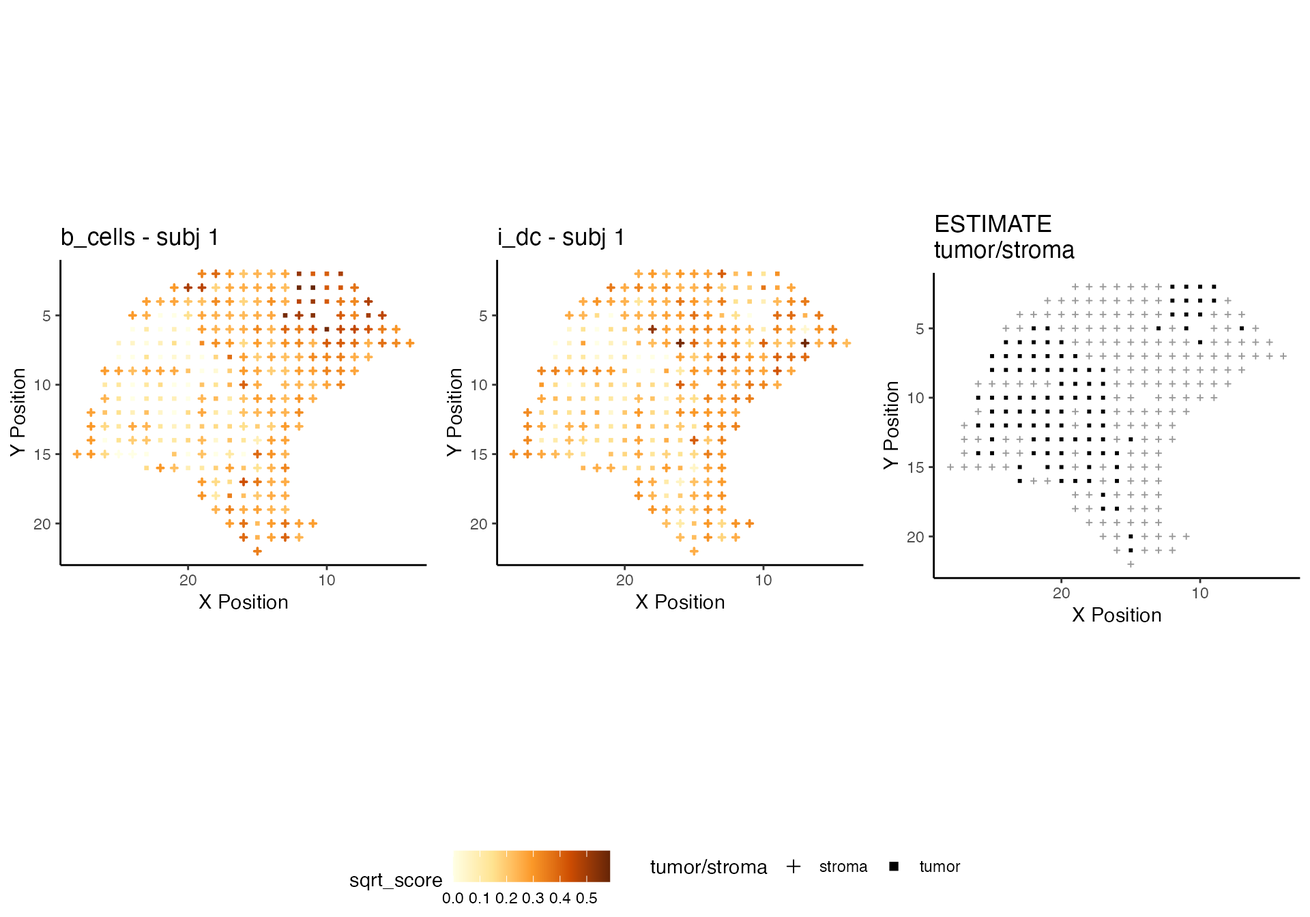
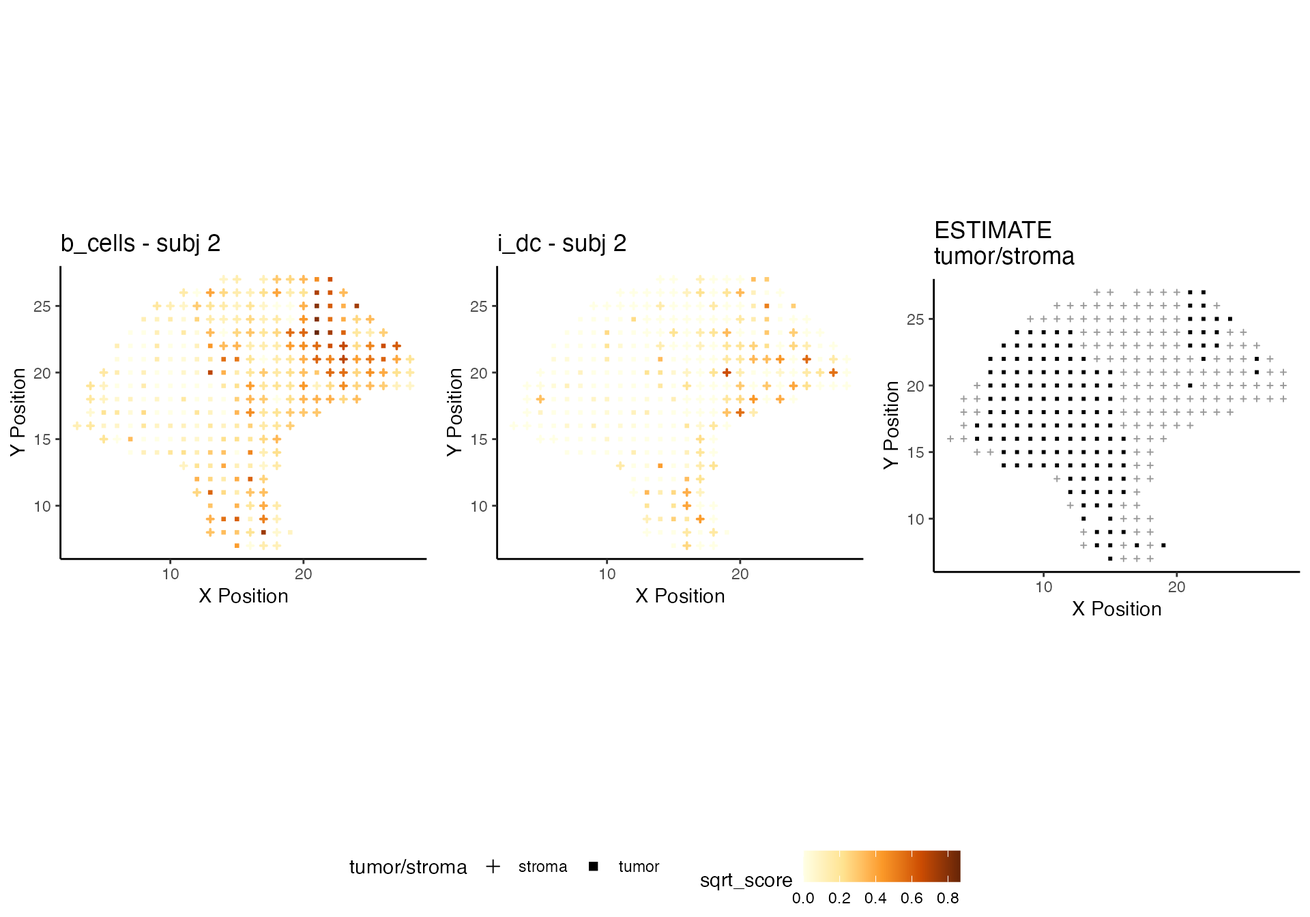
updated vignette

diff --git a/articles/melanoma_ST_vignette.html b/articles/melanoma_ST_vignette.html
@@ -112,7 +112,7 @@
 <p>Optionally, the user can provide a table with clinical/phenotype data associated with each spatial array. This table is a comma-separated file with sample ID in the first column, and relevant variables in subsequent columns. The order of the rows in the clinical file must match that of the file paths.</p>
 <p>The example files in this tutorial can be downloaded from the GitHub repository (<a href="https://github.com/FridleyLab/spatialGEdev/tree/main/inst/extdata" class="uri">https://github.com/FridleyLab/spatialGEdev/tree/main/inst/extdata</a>). They are also stored in your local <code>spatialGE</code> installation:</p>
 <div class="sourceCode" id="cb4"><pre class="downlit sourceCode r">
-<code class="sourceCode R"><span class="va">data_files</span> <span class="op">&lt;-</span> <span class="fu"><a href="https://rdrr.io/r/base/system.file.html">system.file</a></span><span class="op">(</span><span class="st">"extdata"</span>, package <span class="op">=</span> <span class="st">"spatialGEdev"</span><span class="op">)</span></code></pre></div>
+<code class="sourceCode R"><span class="va">data_files</span> <span class="op">&lt;-</span> <span class="fu"><a href="https://rdrr.io/r/base/system.file.html">system.file</a></span><span class="op">(</span><span class="st">"extdata"</span>, package<span class="op">=</span><span class="st">"spatialGEdev"</span><span class="op">)</span></code></pre></div>
 <p>We then create two files (<code>fpaths_count_files.txt</code> and <code>fpaths_mapping_files.txt</code>), containing the file paths where the count and coordinate files are stored. Those two files will be the input to later create the Spatial Transcriptomics List (STList).</p>
 <div class="sourceCode" id="cb5"><pre class="downlit sourceCode r">
 <code class="sourceCode R"><span class="va">count_files</span> <span class="op">&lt;-</span> <span class="fu"><a href="https://rdrr.io/r/base/grep.html">grep</a></span><span class="op">(</span><span class="st">"genes"</span>, <span class="fu"><a href="https://rdrr.io/r/base/list.files.html">list.files</a></span><span class="op">(</span><span class="va">data_files</span>, full.names<span class="op">=</span><span class="cn">T</span><span class="op">)</span>, value<span class="op">=</span><span class="cn">T</span><span class="op">)</span>
@@ -162,30 +162,31 @@
 <h2 class="hasAnchor">
 <a href="#visualization-of-gene-expression-from-spatially-resolved-transcriptomics-data" class="anchor"></a>Visualization of gene expression from spatially-resolved transcriptomics data</h2>
 <p>After normalization, expression of specific genes can be visualized using ‘quilt’ plots. The function <code><a href="../reference/plot_gene_quilt.html">plot_gene_quilt()</a></code> re-creates the shape of the spatial array and shows the scaled normalized expression of a gene. We have adopted the color palettes from the package <code>khroma</code>. The color palette can be passed using the argument <code>color_pal</code>. The default behavior of the function produces plots for all spatial arrays in the STList, but we can define who should be plotted using the argument <code>plot_who</code>.</p>
-<p>Let’s produce a quilt plot for the gene CAPG and SOX10, two genes known to be expressed in melanoma.</p>
+<p>Let’s produce a quilt plot for the genes IGLL5 and SOX10, an immunoglobulin gene and a melanoma marker.</p>
 <div class="sourceCode" id="cb11"><pre class="downlit sourceCode r">
-<code class="sourceCode R"><span class="va">quilts1</span> <span class="op">&lt;-</span> <span class="fu"><a href="../reference/plot_gene_quilt.html">plot_gene_quilt</a></span><span class="op">(</span><span class="va">melanoma</span>, genes<span class="op">=</span><span class="fu"><a href="https://rdrr.io/r/base/c.html">c</a></span><span class="op">(</span><span class="st">'CAPG'</span>, <span class="st">'SOX10'</span><span class="op">)</span>, color_pal<span class="op">=</span><span class="st">"YlOrBr"</span>, plot_who<span class="op">=</span><span class="fl">1</span><span class="op">)</span>
+<code class="sourceCode R"><span class="va">quilts1</span> <span class="op">&lt;-</span> <span class="fu"><a href="../reference/plot_gene_quilt.html">plot_gene_quilt</a></span><span class="op">(</span><span class="va">melanoma</span>, genes<span class="op">=</span><span class="fu"><a href="https://rdrr.io/r/base/c.html">c</a></span><span class="op">(</span><span class="st">'IGLL5'</span>, <span class="st">'SOX10'</span><span class="op">)</span>, color_pal<span class="op">=</span><span class="st">"YlOrBr"</span>, 
+                           plot_who<span class="op">=</span><span class="fl">2</span><span class="op">)</span>
 <span class="fu">ggpubr</span><span class="fu">::</span><span class="fu"><a href="https://rpkgs.datanovia.com/ggpubr/reference/ggarrange.html">ggarrange</a></span><span class="op">(</span>plotlist<span class="op">=</span><span class="va">quilts1</span>, nrow<span class="op">=</span><span class="fl">1</span>, ncol<span class="op">=</span><span class="fl">2</span>, common.legend<span class="op">=</span><span class="cn">T</span>, legend<span class="op">=</span><span class="st">'bottom'</span><span class="op">)</span></code></pre></div>
 <p><img src="melanoma_ST_vignette_files/figure-html/genequilt_chunk-1.png" width="960"></p>
-<p>We can see that gene expression patterns of both genes are different, with a more dispersed pattern in CAPG, compared to SOX10. The large area of lower CAPG expression corresponds to the melanoma pocket detected by Thrane et al. (see Figure 3 of their study).</p>
+<p>We can see that gene expression patterns of both genes are different, with a more dispersed pattern in SOX10, compared to IGLL5 The large area of lower IGLL5 expression corresponds to the melanoma pocket detected by Thrane et al. (see Figure 3 of their study).</p>
 <div id="spatial-interpolation-kriging-of-gene-expression" class="section level3">
 <h3 class="hasAnchor">
 <a href="#spatial-interpolation-kriging-of-gene-expression" class="anchor"></a>Spatial interpolation (‘kriging’) of gene expression</h3>
 <p>We can predict a smooth surface of the gene expression in a spatial array. In <code>spatialGE</code>, this prediction is achieved by a type of spatial interpolation widely used on geographic data. The method named ‘kriging’ allows for the estimation of the normalized gene expression value of the unsampled areas between spots, or spots for which a RNA-Seq library failed to provide data. Estimating a transcriptomic surface via kriging assumes that gene expression of two given points is correlated with the physical distance between them.</p>
 <p>The function <code><a href="../reference/gene_krige.html">gene_krige()</a></code> performs kriging of gene expression via the <code>geoR</code> package:</p>
 <div class="sourceCode" id="cb12"><pre class="downlit sourceCode r">
-<code class="sourceCode R"><span class="va">melanoma</span> <span class="op">&lt;-</span> <span class="fu"><a href="../reference/gene_krige.html">gene_krige</a></span><span class="op">(</span><span class="va">melanoma</span>, genes<span class="op">=</span><span class="fu"><a href="https://rdrr.io/r/base/c.html">c</a></span><span class="op">(</span><span class="st">'CAPG'</span>, <span class="st">'SOX10'</span><span class="op">)</span>, who<span class="op">=</span><span class="fu"><a href="https://rdrr.io/r/base/c.html">c</a></span><span class="op">(</span><span class="fl">1</span>, <span class="fl">3</span><span class="op">)</span><span class="op">)</span>
-<span class="co">#&gt; Performing spatial interpolation ('kriging') of gene CAPG for subject 1...</span>
-<span class="co">#&gt; Performing spatial interpolation ('kriging') of gene SOX10 for subject 1...</span>
-<span class="co">#&gt; Performing spatial interpolation ('kriging') of gene CAPG for subject 3...</span>
+<code class="sourceCode R"><span class="va">melanoma</span> <span class="op">&lt;-</span> <span class="fu"><a href="../reference/gene_krige.html">gene_krige</a></span><span class="op">(</span><span class="va">melanoma</span>, genes<span class="op">=</span><span class="fu"><a href="https://rdrr.io/r/base/c.html">c</a></span><span class="op">(</span><span class="st">'IGLL5'</span>, <span class="st">'SOX10'</span><span class="op">)</span>, who<span class="op">=</span><span class="fu"><a href="https://rdrr.io/r/base/c.html">c</a></span><span class="op">(</span><span class="fl">2</span>, <span class="fl">3</span><span class="op">)</span><span class="op">)</span>
+<span class="co">#&gt; Performing spatial interpolation ('kriging') of gene IGLL5 for subject 2...</span>
+<span class="co">#&gt; Performing spatial interpolation ('kriging') of gene SOX10 for subject 2...</span>
+<span class="co">#&gt; Performing spatial interpolation ('kriging') of gene IGLL5 for subject 3...</span>
 <span class="co">#&gt; Performing spatial interpolation ('kriging') of gene SOX10 for subject 3...</span></code></pre></div>
 <p>The surface can be visualized using the <code><a href="../reference/plot_gene_krige.html">plot_gene_krige()</a></code> function:</p>
 <div class="sourceCode" id="cb13"><pre class="downlit sourceCode r">
-<code class="sourceCode R"><span class="va">kriges1</span> <span class="op">&lt;-</span> <span class="fu"><a href="../reference/plot_gene_krige.html">plot_gene_krige</a></span><span class="op">(</span><span class="va">melanoma</span>, genes<span class="op">=</span><span class="fu"><a href="https://rdrr.io/r/base/c.html">c</a></span><span class="op">(</span><span class="st">'CAPG'</span>, <span class="st">'SOX10'</span><span class="op">)</span>, plot_who<span class="op">=</span><span class="fl">1</span><span class="op">)</span>
+<code class="sourceCode R"><span class="va">kriges1</span> <span class="op">&lt;-</span> <span class="fu"><a href="../reference/plot_gene_krige.html">plot_gene_krige</a></span><span class="op">(</span><span class="va">melanoma</span>, genes<span class="op">=</span><span class="fu"><a href="https://rdrr.io/r/base/c.html">c</a></span><span class="op">(</span><span class="st">'IGLL5'</span>, <span class="st">'SOX10'</span><span class="op">)</span>, plot_who<span class="op">=</span><span class="fl">2</span><span class="op">)</span>
 <span class="co">#&gt; Loading required namespace: rgeos</span>
 <span class="fu">ggpubr</span><span class="fu">::</span><span class="fu"><a href="https://rpkgs.datanovia.com/ggpubr/reference/ggarrange.html">ggarrange</a></span><span class="op">(</span>plotlist<span class="op">=</span><span class="va">kriges1</span>, nrow<span class="op">=</span><span class="fl">1</span>, ncol<span class="op">=</span><span class="fl">2</span>, common.legend<span class="op">=</span><span class="cn">T</span>, legend<span class="op">=</span><span class="st">'bottom'</span><span class="op">)</span></code></pre></div>
 <p><img src="melanoma_ST_vignette_files/figure-html/plotgenekrige_chunk1-1.png" width="960"></p>
-<p>By looking at the transcriptomic surfaces of the tho genes, it is easier to detect pockets of higher (or lower) expression within the tissue. It is now more evident that expression of CAPG is lower on the left (melanoma) portion of the tumor slice, compared to the rest of the slice.</p>
+<p>By looking at the transcriptomic surfaces of the tho genes, it is easier to detect pockets of higher (or lower) expression within the tissue. It is now more evident that expression of IGLL5 is lower on the left (melanoma) portion of the tumor slice, compared to the rest of the slice.</p>
 <p>In the transcriptomic surface plots, <code>spatialGE</code> outputs three spatial heterogeneity statistics: Moran’s I, Geary’s C, and Getis-Ord Gi.</p>
 <table class="table">
 <caption>Heterogeneity statitstics in <code>spatialGE</code>
@@ -213,10 +214,10 @@
 </tr>
 </tbody>
 </table>
-<p>In this case, the two genes showed almost the same values for all three statistics. A slightly lower Moran’s I for CAPG is a result of higher dispersion of spots with high expression values through the slice surface. Both Moran’s I and Geary’s C showed statistical significance (<em>p</em>&lt;0.05) after a permutation test (performed with <code>spdep</code>).</p>
-<p>A higher difference in Moran’s I can be seen for one of the tissue slices of patient 2. With a higher Moran’s I, CAPG shows expression concentrated in the center right and lower left of the tissue. For SOX10, expression is almost uniform for the lower half of the tissue slice.</p>
+<p>A higher Moran’s I for IGLL5 indicates that there are clusters of high expression. In other words, gene expression of IGLL5 is not uniform across the tissue. Geary’s C was significantly different than zero in IGLL5, but not SOX10 (indicated by asterisk), further validating the higher gene expression clustering in IGLL5. Statistical significance (<em>p</em>&lt;0.05) in <code>spatialGE</code> is obtained via permutation (performed with <code>spdep</code>).</p>
+<p>We can control which tissue slice to plot with the <code>plot_who</code> argument. This argument is also included in the quilt plot functions.</p>
 <div class="sourceCode" id="cb14"><pre class="downlit sourceCode r">
-<code class="sourceCode R"><span class="va">kriges2</span> <span class="op">&lt;-</span> <span class="fu"><a href="../reference/plot_gene_krige.html">plot_gene_krige</a></span><span class="op">(</span><span class="va">melanoma</span>, genes<span class="op">=</span><span class="fu"><a href="https://rdrr.io/r/base/c.html">c</a></span><span class="op">(</span><span class="st">'CAPG'</span>, <span class="st">'SOX10'</span><span class="op">)</span>, plot_who<span class="op">=</span><span class="fl">3</span><span class="op">)</span>
+<code class="sourceCode R"><span class="va">kriges2</span> <span class="op">&lt;-</span> <span class="fu"><a href="../reference/plot_gene_krige.html">plot_gene_krige</a></span><span class="op">(</span><span class="va">melanoma</span>, genes<span class="op">=</span><span class="fu"><a href="https://rdrr.io/r/base/c.html">c</a></span><span class="op">(</span><span class="st">'IGLL5'</span>, <span class="st">'SOX10'</span><span class="op">)</span>, plot_who<span class="op">=</span><span class="fl">3</span><span class="op">)</span>
 <span class="fu">ggpubr</span><span class="fu">::</span><span class="fu"><a href="https://rpkgs.datanovia.com/ggpubr/reference/ggarrange.html">ggarrange</a></span><span class="op">(</span>plotlist<span class="op">=</span><span class="va">kriges2</span>, nrow<span class="op">=</span><span class="fl">1</span>, ncol<span class="op">=</span><span class="fl">2</span>, common.legend<span class="op">=</span><span class="cn">T</span>, legend<span class="op">=</span><span class="st">'bottom'</span><span class="op">)</span></code></pre></div>
 <p><img src="melanoma_ST_vignette_files/figure-html/plotgenekrige_chunk2-1.png" width="960"></p>
 </div>
@@ -270,42 +271,39 @@
 <p>With the function <code><a href="../reference/plot_deconv_quilt.html">plot_deconv_quilt()</a></code>, we can visualize the cell type scores inferred by xCell. For example, B cells and dendritic cells.</p>
 <div class="sourceCode" id="cb16"><pre class="downlit sourceCode r">
 <code class="sourceCode R"><span class="va">quilts2</span> <span class="op">&lt;-</span> <span class="fu"><a href="../reference/plot_deconv_quilt.html">plot_deconv_quilt</a></span><span class="op">(</span><span class="va">melanoma</span>, cells<span class="op">=</span><span class="fu"><a href="https://rdrr.io/r/base/c.html">c</a></span><span class="op">(</span><span class="st">'b_cells'</span>, <span class="st">'i_dc'</span><span class="op">)</span>, 
-                           color_pal<span class="op">=</span><span class="st">"YlOrBr"</span>, plot_who<span class="op">=</span><span class="fl">1</span>, purity<span class="op">=</span><span class="cn">T</span><span class="op">)</span>
+                           color_pal<span class="op">=</span><span class="st">"YlOrBr"</span>, plot_who<span class="op">=</span><span class="fl">2</span>, purity<span class="op">=</span><span class="cn">T</span><span class="op">)</span>
 <span class="fu">ggpubr</span><span class="fu">::</span><span class="fu"><a href="https://rpkgs.datanovia.com/ggpubr/reference/ggarrange.html">ggarrange</a></span><span class="op">(</span>plotlist<span class="op">=</span><span class="va">quilts2</span>, nrow<span class="op">=</span><span class="fl">1</span>, ncol<span class="op">=</span><span class="fl">3</span>, common.legend<span class="op">=</span><span class="cn">T</span>, legend<span class="op">=</span><span class="st">'bottom'</span><span class="op">)</span></code></pre></div>
 <p><img src="melanoma_ST_vignette_files/figure-html/deconvquilts_chunk-1.png" width="960"></p>
 <p>By plotting the tumor/stroma classification of the spots, the differences in cell scores can quiclky be detected. Melanoma areas (squares) show lower B cell and dendritic cell scores, as expected. Nonetheless, B cells were abundant in the lymphoid pocket (upper right part of the tissue).</p>
 <p>Similar plots can be generated for gene expression, as opposed to deconvolution scores, with the <code><a href="../reference/plot_gene_quilt.html">plot_gene_quilt()</a></code> function:</p>
 <div class="sourceCode" id="cb17"><pre class="downlit sourceCode r">
-<code class="sourceCode R"><span class="va">quilts3</span> <span class="op">&lt;-</span> <span class="fu"><a href="../reference/plot_gene_quilt.html">plot_gene_quilt</a></span><span class="op">(</span><span class="va">melanoma</span>, genes<span class="op">=</span><span class="fu"><a href="https://rdrr.io/r/base/c.html">c</a></span><span class="op">(</span><span class="st">'CAPG'</span>, <span class="st">'SOX10'</span><span class="op">)</span>, color_pal<span class="op">=</span><span class="st">"YlOrBr"</span>, 
-                           plot_who<span class="op">=</span><span class="fl">1</span>, purity<span class="op">=</span><span class="cn">T</span><span class="op">)</span>
+<code class="sourceCode R"><span class="va">quilts3</span> <span class="op">&lt;-</span> <span class="fu"><a href="../reference/plot_gene_quilt.html">plot_gene_quilt</a></span><span class="op">(</span><span class="va">melanoma</span>, genes<span class="op">=</span><span class="fu"><a href="https://rdrr.io/r/base/c.html">c</a></span><span class="op">(</span><span class="st">'IGLL5'</span>, <span class="st">'SOX10'</span><span class="op">)</span>, color_pal<span class="op">=</span><span class="st">"YlOrBr"</span>, 
+                           plot_who<span class="op">=</span><span class="fl">2</span>, purity<span class="op">=</span><span class="cn">T</span><span class="op">)</span>
 
 <span class="fu">ggpubr</span><span class="fu">::</span><span class="fu"><a href="https://rpkgs.datanovia.com/ggpubr/reference/ggarrange.html">ggarrange</a></span><span class="op">(</span>plotlist<span class="op">=</span><span class="va">quilts3</span>, nrow<span class="op">=</span><span class="fl">1</span>, ncol<span class="op">=</span><span class="fl">3</span>, common.legend<span class="op">=</span><span class="cn">T</span>, legend<span class="op">=</span><span class="st">'bottom'</span><span class="op">)</span></code></pre></div>
 <p><img src="melanoma_ST_vignette_files/figure-html/genepurity_chunk-1.png" width="960"></p>
 <p>Spatial interpolation of cell scores is also possible with the <code><a href="../reference/deconv_krige.html">deconv_krige()</a></code> function:</p>
 <div class="sourceCode" id="cb18"><pre class="downlit sourceCode r">
-<code class="sourceCode R"><span class="va">melanoma</span> <span class="op">&lt;-</span> <span class="fu"><a href="../reference/deconv_krige.html">deconv_krige</a></span><span class="op">(</span><span class="va">melanoma</span>, cells<span class="op">=</span><span class="fu"><a href="https://rdrr.io/r/base/c.html">c</a></span><span class="op">(</span><span class="st">'b_cells'</span>, <span class="st">'i_dc'</span><span class="op">)</span>, 
-                         who<span class="op">=</span><span class="fu"><a href="https://rdrr.io/r/base/c.html">c</a></span><span class="op">(</span><span class="fl">1</span>, <span class="fl">3</span><span class="op">)</span><span class="op">)</span>
-<span class="co">#&gt; Performing spatial interpolation ('kriging') of b_cells for subject 1...</span>
-<span class="co">#&gt; Performing spatial interpolation ('kriging') of i_dc for subject 1...</span>
-<span class="co">#&gt; Performing spatial interpolation ('kriging') of b_cells for subject 3...</span>
-<span class="co">#&gt; Performing spatial interpolation ('kriging') of i_dc for subject 3...</span></code></pre></div>
+<code class="sourceCode R"><span class="va">melanoma</span> <span class="op">&lt;-</span> <span class="fu"><a href="../reference/deconv_krige.html">deconv_krige</a></span><span class="op">(</span><span class="va">melanoma</span>, cells<span class="op">=</span><span class="fu"><a href="https://rdrr.io/r/base/c.html">c</a></span><span class="op">(</span><span class="st">'b_cells'</span>, <span class="st">'i_dc'</span><span class="op">)</span>, who<span class="op">=</span><span class="fl">2</span><span class="op">)</span>
+<span class="co">#&gt; Performing spatial interpolation ('kriging') of b_cells for subject 2...</span>
+<span class="co">#&gt; Performing spatial interpolation ('kriging') of i_dc for subject 2...</span></code></pre></div>
 <p>We plot the surfaces using the <code><a href="../reference/plot_deconv_krige.html">plot_deconv_krige()</a></code> function.</p>
 <div class="sourceCode" id="cb19"><pre class="downlit sourceCode r">
 <code class="sourceCode R"><span class="va">kriges3</span> <span class="op">&lt;-</span> <span class="fu"><a href="../reference/plot_deconv_krige.html">plot_deconv_krige</a></span><span class="op">(</span><span class="va">melanoma</span>,  cells<span class="op">=</span><span class="fu"><a href="https://rdrr.io/r/base/c.html">c</a></span><span class="op">(</span><span class="st">'b_cells'</span>, <span class="st">'i_dc'</span><span class="op">)</span>,
-                           color_pal<span class="op">=</span><span class="st">"YlOrBr"</span>, plot_who<span class="op">=</span><span class="fl">1</span><span class="op">)</span>
+                           color_pal<span class="op">=</span><span class="st">"YlOrBr"</span>, plot_who<span class="op">=</span><span class="fl">2</span><span class="op">)</span>
 <span class="fu">ggpubr</span><span class="fu">::</span><span class="fu"><a href="https://rpkgs.datanovia.com/ggpubr/reference/ggarrange.html">ggarrange</a></span><span class="op">(</span>plotlist<span class="op">=</span><span class="va">kriges3</span>, nrow<span class="op">=</span><span class="fl">1</span>, ncol<span class="op">=</span><span class="fl">2</span>, common.legend<span class="op">=</span><span class="cn">T</span>, legend<span class="op">=</span><span class="st">'bottom'</span><span class="op">)</span></code></pre></div>
 <p><img src="melanoma_ST_vignette_files/figure-html/plotdeconvkrige_chunk-1.png" width="960"></p>
 <p>Cell scores in xCell are accompanied by p-values to support the significance of the scores. The p-values are calculated automatically during deconvolution in <code>spatialGE</code>, and we can plot them using the <code>pvalue</code> option:</p>
 <div class="sourceCode" id="cb20"><pre class="downlit sourceCode r">
 <code class="sourceCode R"><span class="va">kriges4</span> <span class="op">&lt;-</span> <span class="fu"><a href="../reference/plot_deconv_krige.html">plot_deconv_krige</a></span><span class="op">(</span><span class="va">melanoma</span>,  cells<span class="op">=</span><span class="fu"><a href="https://rdrr.io/r/base/c.html">c</a></span><span class="op">(</span><span class="st">'b_cells'</span>, <span class="st">'i_dc'</span><span class="op">)</span>,
-                           color_pal<span class="op">=</span><span class="st">"YlOrBr"</span>, plot_who<span class="op">=</span><span class="fl">1</span>, pvalues<span class="op">=</span><span class="cn">T</span><span class="op">)</span>
+                           color_pal<span class="op">=</span><span class="st">"YlOrBr"</span>, plot_who<span class="op">=</span><span class="fl">2</span>, pvalues<span class="op">=</span><span class="cn">T</span><span class="op">)</span>
 <span class="fu">ggpubr</span><span class="fu">::</span><span class="fu"><a href="https://rpkgs.datanovia.com/ggpubr/reference/ggarrange.html">ggarrange</a></span><span class="op">(</span>plotlist<span class="op">=</span><span class="va">kriges4</span>, nrow<span class="op">=</span><span class="fl">1</span>, ncol<span class="op">=</span><span class="fl">2</span>, common.legend<span class="op">=</span><span class="cn">T</span>, legend<span class="op">=</span><span class="st">'bottom'</span><span class="op">)</span></code></pre></div>
 <p><img src="melanoma_ST_vignette_files/figure-html/plotkrigepvals_chunk-1.png" width="960"></p>
-<p>B cells are present throughout the tissue, but less abundant in the melanoma pocket. The estimates were significantly different from zero as sugggested by xCell’s permutation method. The xCell scores for the dendritic cells were only significantly different from zero only on three spots (gray hollow circles).</p>
+<p>B cells are present throughout the tissue, but less abundant in the melanoma pocket. The estimates were significantly different from zero as sugggested by xCell’s permutation method. The xCell scores for the dendritic cells were only significantly different from zero only for a few spots (gray hollow circles).</p>
 <p>The <code><a href="../reference/plot_deconv_krige.html">plot_deconv_krige()</a></code> also allows annotation of tumor spots:</p>
 <div class="sourceCode" id="cb21"><pre class="downlit sourceCode r">
 <code class="sourceCode R"><span class="va">kriges5</span> <span class="op">&lt;-</span> <span class="fu"><a href="../reference/plot_deconv_krige.html">plot_deconv_krige</a></span><span class="op">(</span><span class="va">melanoma</span>,  cells<span class="op">=</span><span class="fu"><a href="https://rdrr.io/r/base/c.html">c</a></span><span class="op">(</span><span class="st">'b_cells'</span>, <span class="st">'i_dc'</span><span class="op">)</span>,
-                           color_pal<span class="op">=</span><span class="st">"YlOrBr"</span>, plot_who<span class="op">=</span><span class="fl">1</span>, purity<span class="op">=</span><span class="cn">T</span><span class="op">)</span>
+                           color_pal<span class="op">=</span><span class="st">"YlOrBr"</span>, plot_who<span class="op">=</span><span class="fl">2</span>, purity<span class="op">=</span><span class="cn">T</span><span class="op">)</span>
 <span class="fu">ggpubr</span><span class="fu">::</span><span class="fu"><a href="https://rpkgs.datanovia.com/ggpubr/reference/ggarrange.html">ggarrange</a></span><span class="op">(</span>plotlist<span class="op">=</span><span class="va">kriges5</span>, nrow<span class="op">=</span><span class="fl">1</span>, ncol<span class="op">=</span><span class="fl">2</span>, common.legend<span class="op">=</span><span class="cn">T</span>, legend<span class="op">=</span><span class="st">'bottom'</span><span class="op">)</span></code></pre></div>
 <p><img src="melanoma_ST_vignette_files/figure-html/plotkrigepurity_chunk-1.png" width="960"></p>
 </div>
@@ -317,7 +315,7 @@
 <code class="sourceCode R"><span class="va">melanoma</span> <span class="op">&lt;-</span> <span class="fu"><a href="../reference/cluster_STspot.html">cluster_STspot</a></span><span class="op">(</span><span class="va">melanoma</span>, ks<span class="op">=</span><span class="st">'dtc'</span>, weights<span class="op">=</span><span class="fl">0.1</span><span class="op">)</span></code></pre></div>
 <p>Results of clustering can be plotted via the <code><a href="../reference/plot_STclusters.html">plot_STclusters()</a></code> function:</p>
 <div class="sourceCode" id="cb23"><pre class="downlit sourceCode r">
-<code class="sourceCode R"><span class="va">cluster_p</span> <span class="op">&lt;-</span> <span class="fu"><a href="../reference/plot_STclusters.html">plot_STclusters</a></span><span class="op">(</span><span class="va">melanoma</span>, purity<span class="op">=</span><span class="cn">T</span>, plot_who<span class="op">=</span><span class="fu"><a href="https://rdrr.io/r/base/c.html">c</a></span><span class="op">(</span><span class="fl">1</span>,<span class="fl">3</span><span class="op">)</span><span class="op">)</span>
+<code class="sourceCode R"><span class="va">cluster_p</span> <span class="op">&lt;-</span> <span class="fu"><a href="../reference/plot_STclusters.html">plot_STclusters</a></span><span class="op">(</span><span class="va">melanoma</span>, purity<span class="op">=</span><span class="cn">T</span>, plot_who<span class="op">=</span><span class="fu"><a href="https://rdrr.io/r/base/c.html">c</a></span><span class="op">(</span><span class="fl">2</span>,<span class="fl">3</span><span class="op">)</span><span class="op">)</span>
 
 <span class="co"># In case specific k values are selected:</span>
 <span class="co"># for(i in 1:2){</span>
